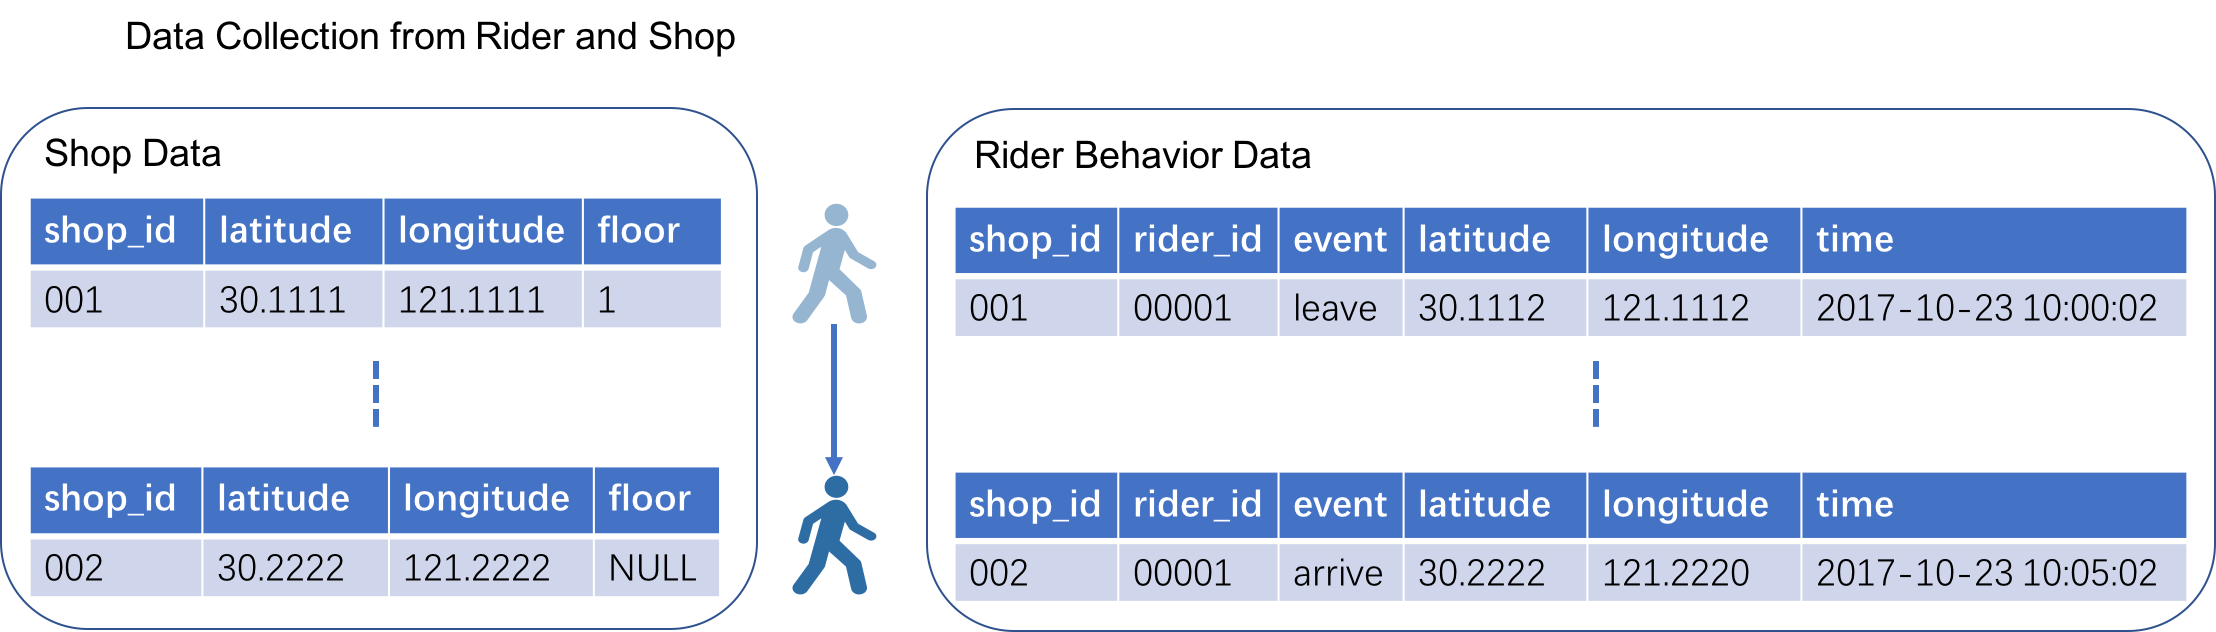
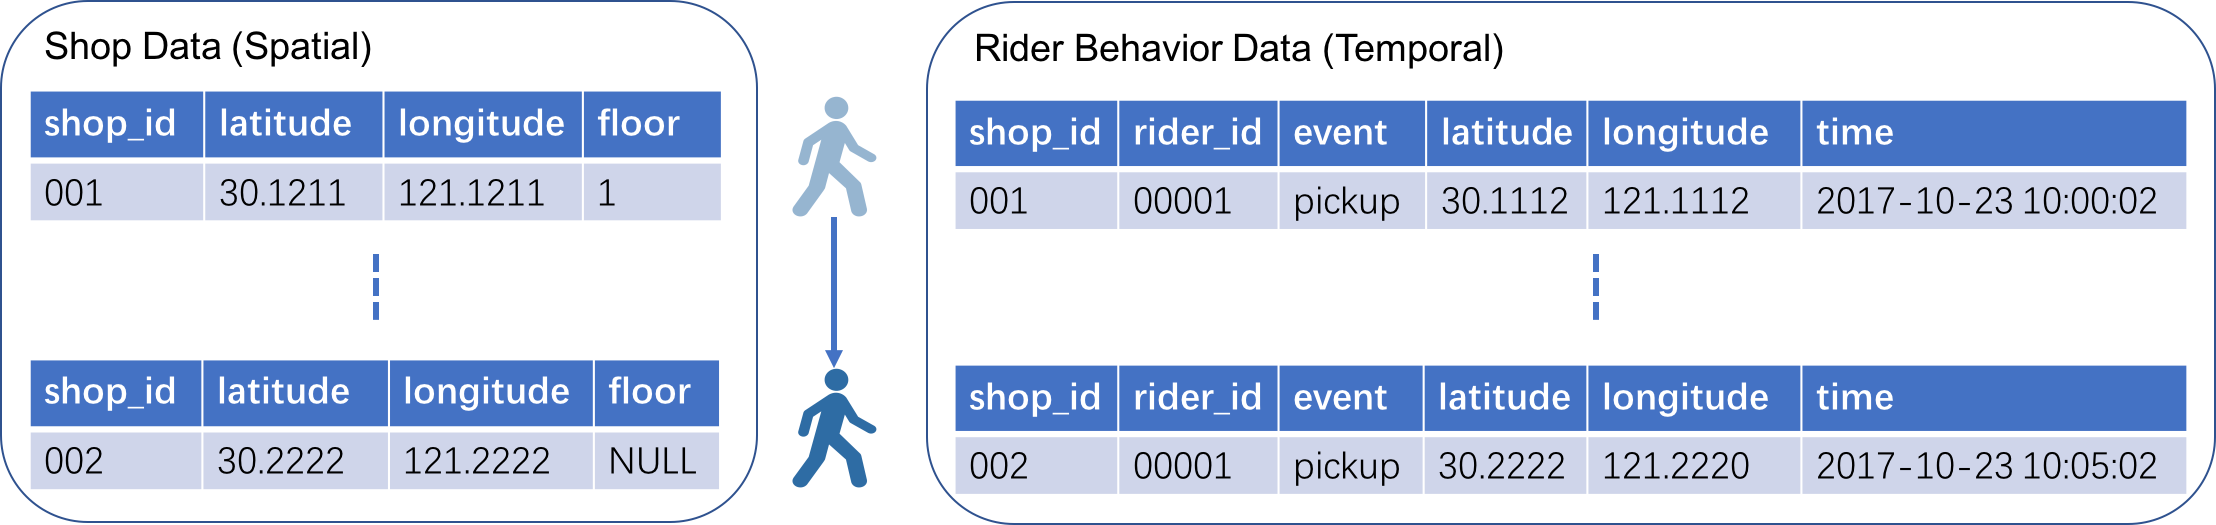
update outline

diff --git a/Research/2018-MobiSys/outline-draft-3.md b/Research/2018-MobiSys/outline-draft-3.md
@@ -153,29 +153,44 @@ In practical situations, data gathered from restaurants and riders might be inac
 
 In processinhg the real world data, we find following problems in the datasets:
 
-1. Missing value (Floor number missing for many restaurants)
-2. Inaccurate POI information (Wrong latitude/longitude)
-3. Inaccurate labels (Wrong labels from riders)
+Spatial inconsistency:
+1. Inaccurate POI information (e.g. Wrong latitude/longitude of restaurant or customer)
+2. Inaccurate rider positioning (e.g. Wrong latitude/longitude of rider)
 
+Temporal inconsistency:
+1. Invalid speed. ( e.g. >10m/s indoor situation)
+2. Abonormal rider behavior. (e.g. potential rider fraud)
+
+<!---
 Before utilizing the data for modeling, we need to verify the data consistency and remove or correct the wrong data. Thanks to the various data sources, same event is usually covered by multiple data reocords hence that redundency existis. Verification is possible due to data redundency. For example, The rider's arrival at a restaurant is recorded in the riders' behavior data and rider's trace data.
+--->
 
 Data inconsistency has been studied in many papers and some classical methods were proposed to detect and repair error data. CFD is the most important method in this field, other methods also includes Bayesian estimation and maximum likelihood. However, these methods cannot be use in the delivery system. CFD cannot be used because explicit semantic dependency is lacking in the system. Moreover, data inconsistency in delivery system tends to be quantitative instead of logical, hence manually defined funtional dependency cannot capture all the error data. Moreover, existing methods usually based on a single relation table, while in our case, data are gather from different sources. Data inconsistency might happen during the data fusing process.
 
-In our method, we find the data inconsistency by first clustering the data to rider-related and restaurant-related. Then we compare the data with rider's mobility pattern and restaurant's operation pattern.
+In our method, we find the data inconsistency by first clustering the data to by restaurant or by rider. Then we 
+compare the observed data with expected output or with rider's mobility pattern and restaurant's operation pattern.
+ 
 
-The basic idea is to compare the rider's trace and event data with the typical rider mobility pattern. We first conduct restaurant-oriented data clustering and rider-oriented data clustering. Abnormal data is detected if the sample is rejected by the distribution.
-
-* Rider Mobility Pattern
-* Restaurant Event Pattern
-
-The data inconsistency in the data can be detected by finding out the abnormal events. The abnormal event $(s,d)$ is defined as follows:
+### 5.1 Spatial Inconsistency (POI Correction) (Clustering by shop)
+Spatial inconsistency is detected by clustering the data by vertices in the delivery graph, since each vertex represents a spatial location. The abnormal event $(s,d)$ is defined as follows:
 
 $$\left| \tilde \tau(s,d) - \hat \tau(s,d) \right| > \epsilon(s,d)$$
 
-where $\tilde \tau(s,d)$ is the observed time for event $(s,d)$, $\hat \tau(s,d)$ is the estimated time for event $(s,d)$ based on empirical distance function $\tau$. 
+where $\tilde \tau(s,d)$ is the observed time for event $(s,d)$, $\hat \tau(s,d)$ is the estimated time for event $(s,d)$ based on empirical distance function $\tau$.
 
-### 5.1 Spatial Inconsistency (POI Correction) (Clustering by shop)
-Spatial Inconsistency is detected via compare the each single rider's trace data with rider mobility pattern built from massive rider trace data.
+**Restaurant Behavior Pattern**
+* Waiting time distribution
+* Restaurant Delivery time distribution
+
+
+**Data Correction**
+Data correction can be achieved by minizing the residual error between the distances related the error data in the temporal space. That is, suppose the a restaurant has a error POI (lat and lon), the observe the distance related 
+
+$$ \underset{lat,lon}{\text{minimize}} \sum \left| \tilde \tau(s,d) - \hat \tau(s,d) \right| $$
+
+
+### 5.2 Temporal Inconsistency (Rider Fraud) (Clustering by rider)
+Temporal inconsistency is detected clustering the data by rider and compare the observed with rider mobility pattern built from massive rider trace data. The basic idea is to compare the rider's trace and event data with the typical rider mobility pattern. We first conduct restaurant-oriented data clustering and rider-oriented data clustering. Abnormal data is detected if the sample is rejected by the distribution.
 
 **Rider Mobility Pattern**
 
@@ -188,23 +203,12 @@ Indoor speed distribution can be built based on rider's indoor trace gathered fr
 
 Outdoor speed distibution can be built based on rider's outdoor trace gathered from GPS data.
 
-The following data error type is found:
-* Restaurant POI inaccuracy
-* Customer POI inaccuracy
+* Restaurant Event Pattern
 
-**Data Correction**
-Data correction can be achieved by minizing the residual error between the distances related the error data in the temporal space. That is, suppose the a restaurant has a error POI (lat and lon), the observe the distance related 
-
-$$ \underset{lat,lon}{\text{minimize}} \sum \left| \tilde \tau(s,d) - \hat \tau(s,d) \right| $$
-
-
-### 5.2 Temporal Inconsistency (Rider Fraud) (Clustering by rider)
 **Rider Behavior Pattern**
 * Riders' Accepting time distribution
 
-**Restaurant Behavior Pattern**
-* Waiting time distribution
-* Restaurant Delivery time distribution
+
 
 
 
